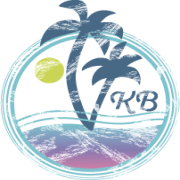
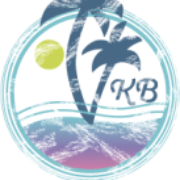
Edit images css

diff --git a/css/main.css b/css/main.css
@@ -25,6 +25,12 @@ html {
   display: flex;
   align-items: center;
 }
+@media screen and (min-width: 960px) {
+  .logo-container {
+    margin-top: 20px;
+    margin-left: 20px;
+  }
+}
 
 .navbar-brand-logo {
   width: 10vw;
@@ -1859,7 +1865,7 @@ html {
 .footer-item-link {
   width: 50vw;
   display: flex;
-  justify-content: space-evenly;
+  justify-content: center;
   align-items: center;
   flex-direction: column;
 }

diff --git a/index.html b/index.html
@@ -466,7 +466,7 @@
     <div class="footer-container">
       <div class="footer-items">
         <a class="footer-item-link" href="./production.html">
-          <h2 class="footer-link-txt">And more…</h2>
+          <h2 class="footer-link-txt">And more…　</h2>
           <img class="footer-link-img" src="./img/production-link.png" alt="">
         </a>
       </div>

diff --git a/css/mybootstrap.css b/css/mybootstrap.css
@@ -15,6 +15,11 @@
 .nav-link {
   color: #34807c;
 }
+@media screen and (min-width: 960px) {
+  .nav-link {
+    font-size: 1.3rem;
+  }
+}
 
 a {
   text-decoration: none;
